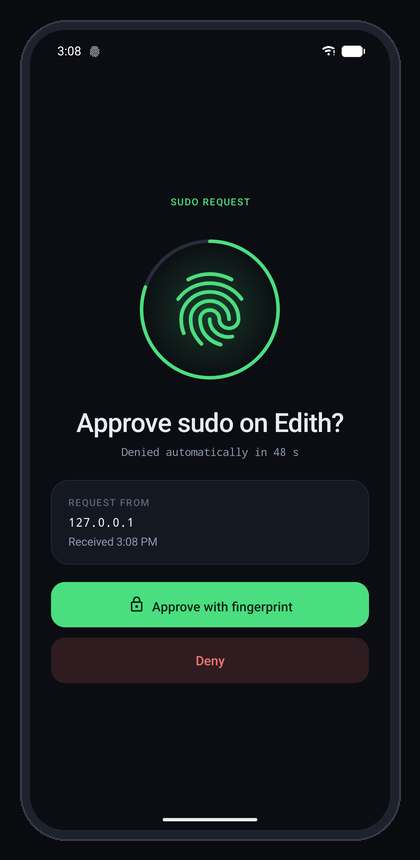
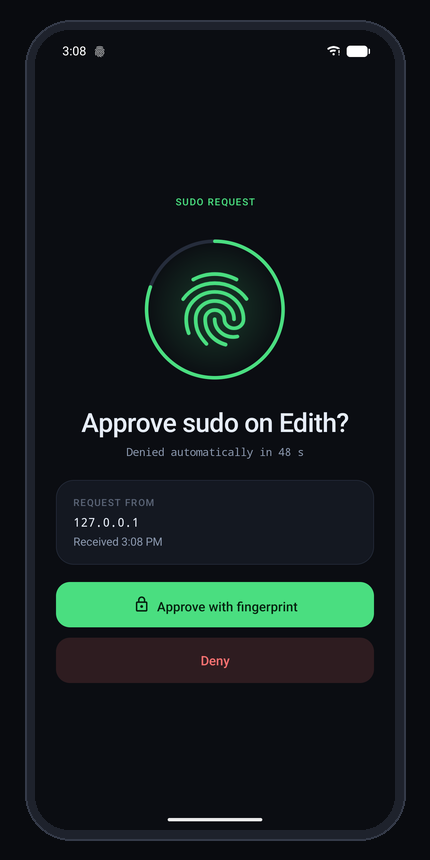
Play Store: privacy policy, feature graphic, 2:1 screenshots
- docs/PRIVACY_POLICY.md: no data collected or shared; what stays on the
  phone and why (Play requires a policy URL).
- Feature graphic 1024x500 from the hero image; the hero now shows the
  1.4 approval and result screens.
- Screenshots padded to 430x860: Play refuses a long side more than twice
  the short one (420x860 was 2.05:1). frame_screenshot.py produces 2:1.
- check-listing.sh enforces both, so a listing Play would reject fails CI.

diff --git a/tools/frame_screenshot.py b/tools/frame_screenshot.py
@@ -1,6 +1,6 @@
 #!/usr/bin/env python3
-"""Frame a phone screenshot for the README and the store listing: 420x860, the screen inside a
-plain dark bezel on the page background. Every image in docs/images (except hero.png) is made
+"""Frame a phone screenshot for the README and the store listing: 430x860 (exactly 2:1, the most
+Google Play accepts), the screen inside a plain dark bezel on the page background. Every image in docs/images (except hero.png) is made
 this way, so they line up side by side.
 
     python3 tools/frame_screenshot.py shot.png docs/images/approval.png
@@ -12,11 +12,11 @@ import sys
 
 from PIL import Image, ImageDraw
 
-W, H = 420, 860
+W, H = 430, 860
 BG = (9, 11, 15)
 EDGE = (52, 58, 72)
 BEZEL = (30, 34, 44)
-SCREEN = (30, 30, 390, 830)          # where the screenshot goes: 360 x 800 (the 9:20 of 1080x2400)
+SCREEN = (35, 30, 395, 830)          # where the screenshot goes: 360 x 800 (the 9:20 of 1080x2400)
 
 
 def rounded(size, box, radius, fill):
@@ -30,7 +30,7 @@ def main():
         sys.exit(__doc__)
     shot = Image.open(sys.argv[1]).convert("RGB")
     out = Image.new("RGB", (W, H), BG)
-    for box, radius, color in (((20, 20, 400, 840), 46, EDGE), ((22, 22, 398, 838), 44, BEZEL)):
+    for box, radius, color in (((25, 20, 405, 840), 46, EDGE), ((27, 22, 403, 838), 44, BEZEL)):
         layer, mask = rounded((W, H), box, radius, color)
         out.paste(layer, (0, 0), mask)
     x0, y0, x1, y1 = SCREEN

diff --git a/docs/PRIVACY_POLICY.md b/docs/PRIVACY_POLICY.md
@@ -1,0 +1,42 @@
+# SudoStamp Privacy Policy
+
+**Effective date:** 24 October 2026 (applies to SudoStamp 1.4 and later)
+**Developer:** Ritwick Verma — verma1997@gmail.com
+**App:** SudoStamp (`com.ritwick.sudostamp`), free and open source (MIT),
+source at https://gitlab.com/ritwick7/sudostamp
+
+## The short version
+
+SudoStamp does not collect, send or share any personal data. It has no accounts, no ads, no
+analytics, no crash reporting and no internet connection of its own. It talks only to the computers
+you pair it with, on your own local network.
+
+## What the app handles, and where it stays
+
+| What | Why | Where it goes |
+|---|---|---|
+| Your fingerprint | Android's biometric prompt confirms it is you before each approval. | Never seen by the app: Android checks the fingerprint in its secure hardware and only tells the app "yes" or "no". |
+| Signing keys | One per paired computer, made inside the phone's secure hardware (Android Keystore). | Never leave the phone; cannot be exported, even by the app. |
+| Paired computers | The name each computer gave when pairing, when it was paired, and the address it paired from, so approvals can say which computer is asking. | Stored in the app's private storage on the phone; deleted when you remove that computer or uninstall the app. Excluded from Android backup and device transfer. |
+| Requests from your computers | A computer you paired sends a random 32-byte challenge; the phone signs it after your fingerprint and sends the signature back to that computer. | Over your local network only, directly between the phone and that computer. Nothing is stored. |
+| Local network | The app listens on TCP port 7777 for paired computers, and serves only devices on the same Wi-Fi or Ethernet network. While you pair a computer it announces itself on that network (mDNS) so the computer can find it. | Nothing goes to the internet. |
+| Notifications | Shows "Approve sudo?" for each request, and an ongoing notice while the listener runs (Android requires it). | — |
+
+## What the app does not do
+
+No data is sold, shared, or sent to the developer or any third party. There are no third-party
+libraries in the app at all. The app does not access contacts, location, files, the camera, the
+microphone or your accounts.
+
+## Children
+
+SudoStamp is a tool for computer administrators and is not directed at children.
+
+## Changes
+
+Changes to this policy are made in this file, in the public repository, with the date above
+updated; the history is visible in the repository.
+
+## Contact
+
+verma1997@gmail.com, or a confidential issue at https://gitlab.com/ritwick7/sudostamp/-/issues.
